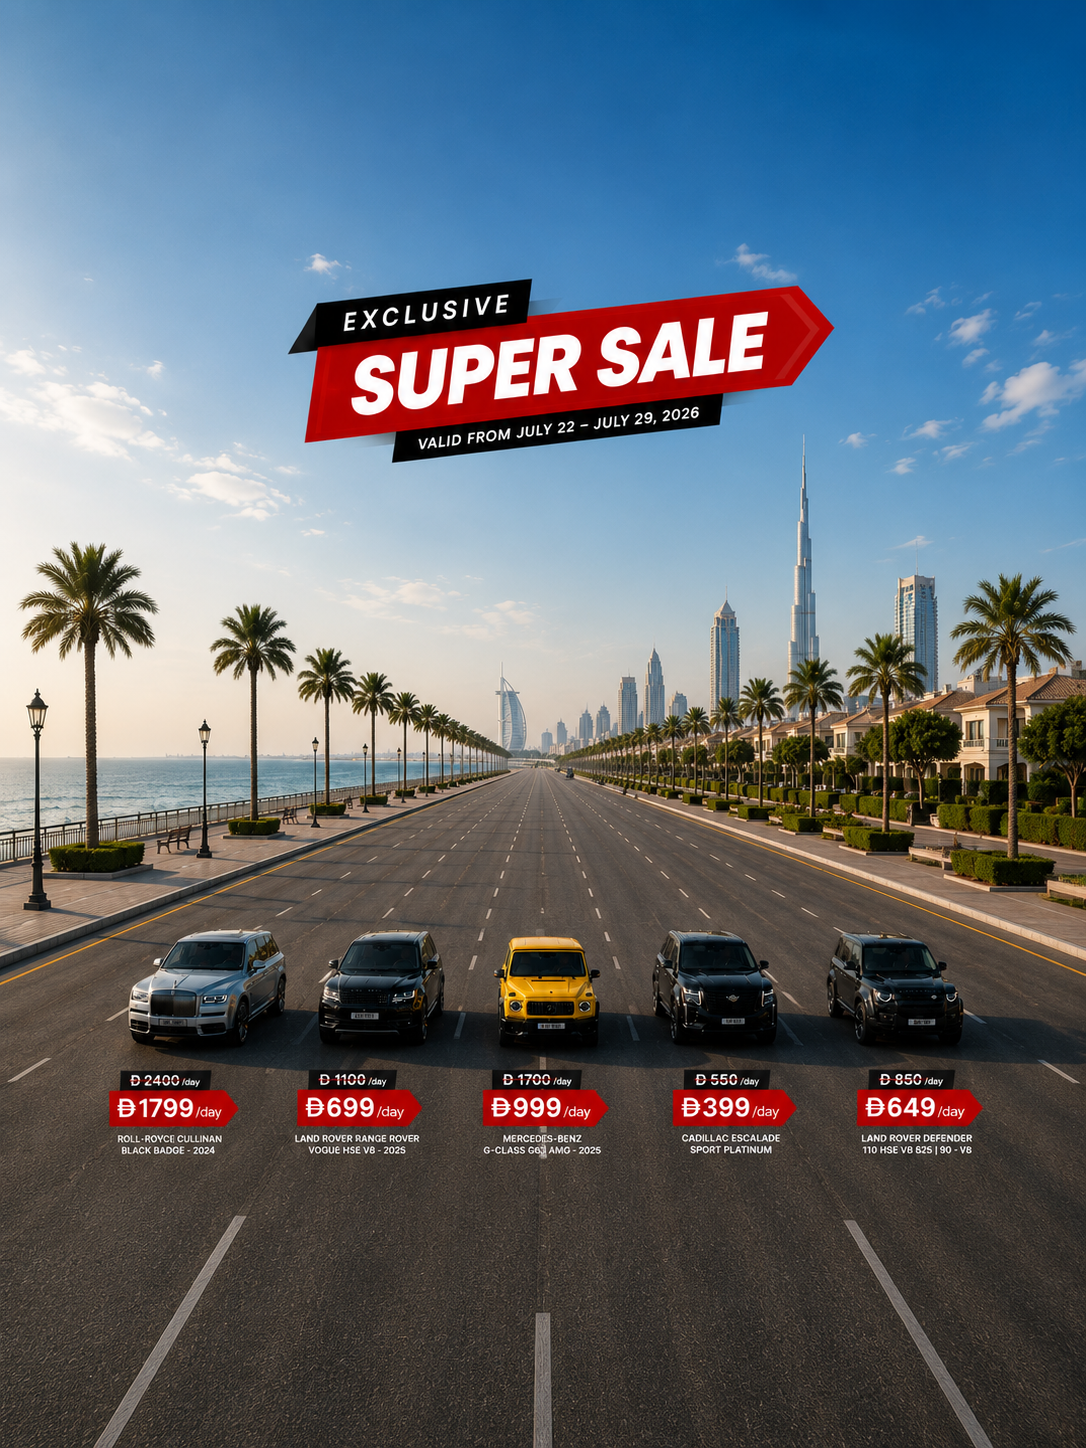
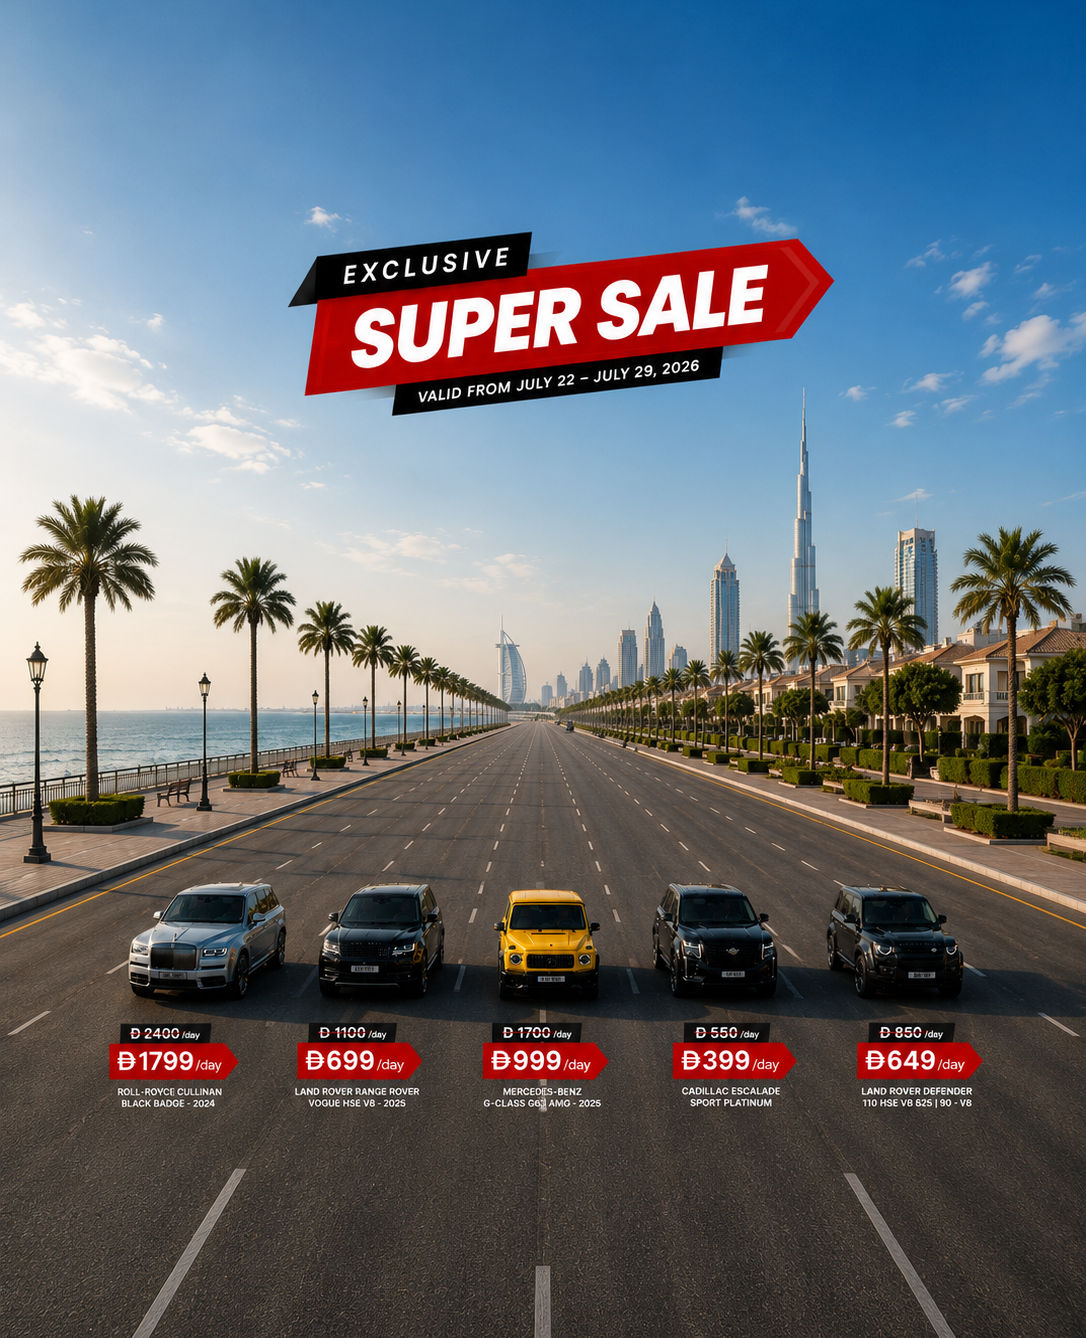
Chauffeur Section & Popup IOS Isue Solved

diff --git a/src/sections/Hero.tsx b/src/sections/Hero.tsx
@@ -234,7 +234,7 @@ function Hero() {
               value={query}
               onChange={(e) => setQuery(e.target.value)}
               onFocus={() => setModalOpen(true)}
-              className="flex-1 bg-transparent text-gray-50 outline-none text-sm sm:text-base font-light tracking-wide py-2.5"
+              className="flex-1 bg-transparent text-gray-50 outline-none text-base font-light tracking-wide py-2.5"
             />
             {!query && (
               <span

diff --git a/src/components/sections/ChauffeurBanner.tsx b/src/components/sections/ChauffeurBanner.tsx
@@ -60,7 +60,7 @@ function ChauffeurBanner() {
           loading="lazy"
           width={1440}
           height={700}
-          className="absolute inset-0 w-full h-full object-cover object-right"
+          className="absolute inset-0 w-full h-full object-cover object-center md:object-right"
         />
       ) : (
         // TODO: replace with real asset — chauffeur-rolls-royce.webp
